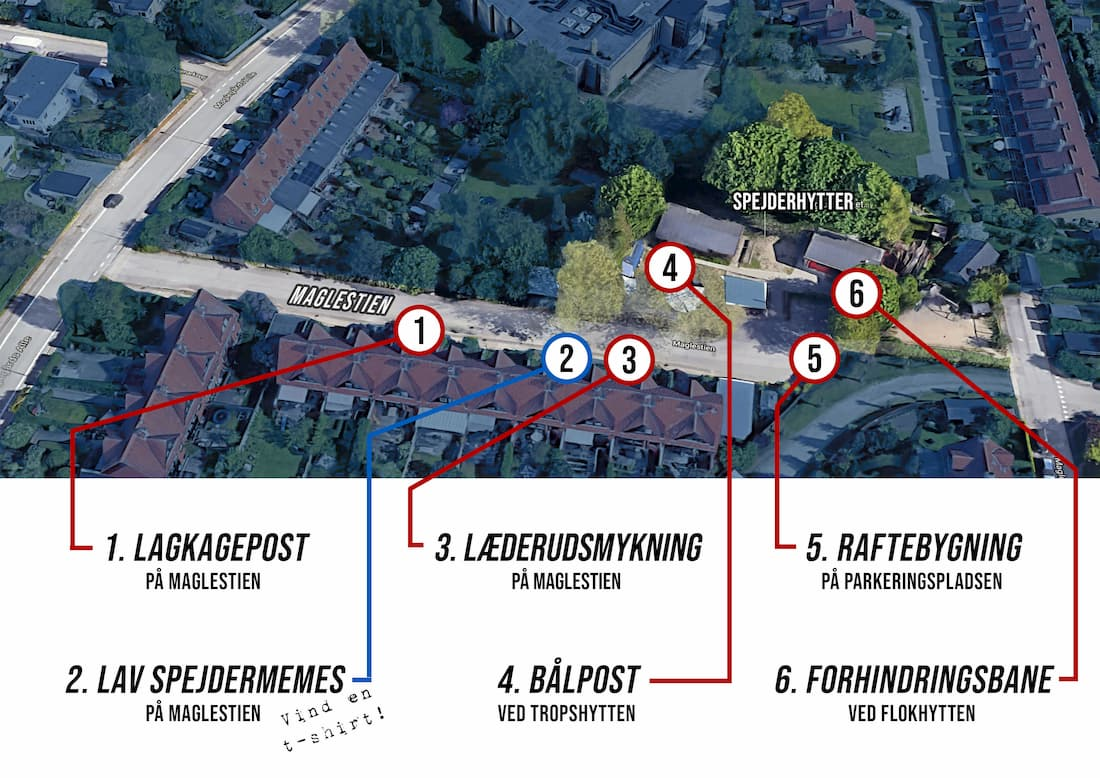
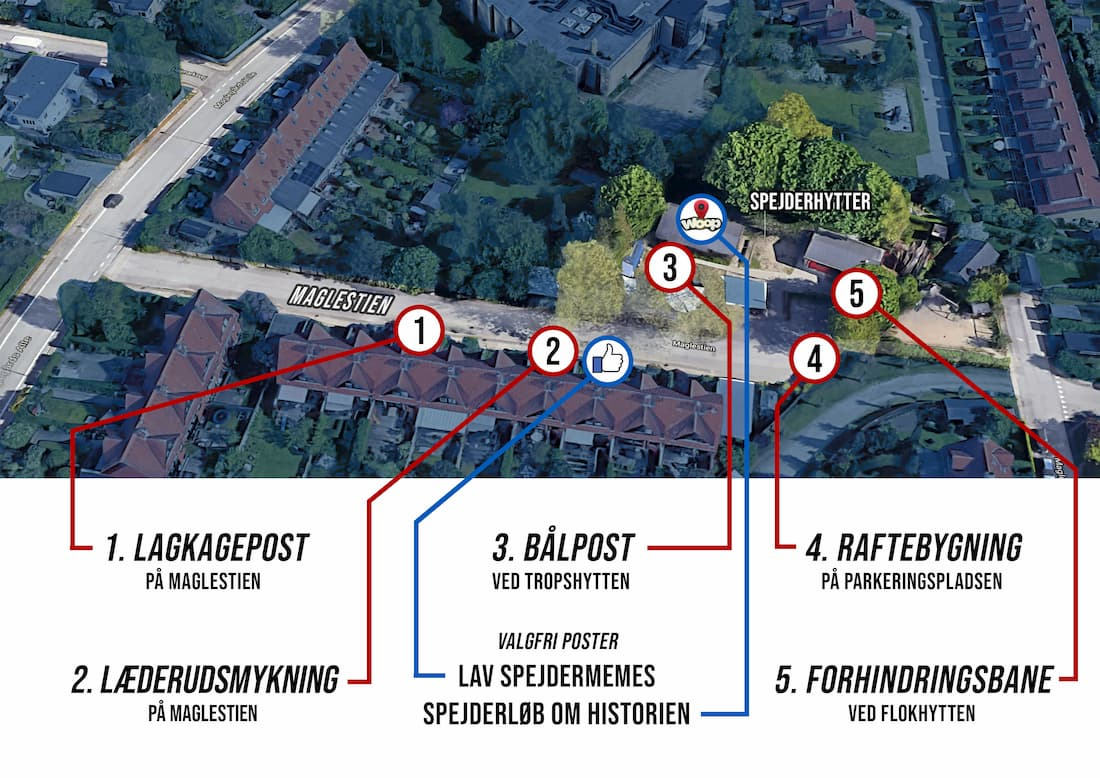
Update activities info: no badges im afraid

diff --git a/_pages/100-aktiviteter.md b/_pages/100-aktiviteter.md
@@ -23,7 +23,7 @@ title: Aktiviteter til åbent hus -  100 års jubilæum
         width: 100%;
         max-width: 600px;
     }
-    .jub-activities-description ol {
+    .jub-activities-description ol, .jub-activities-description ul {
         padding-left: 20px;
     }
 
@@ -55,19 +55,15 @@ title: Aktiviteter til åbent hus -  100 års jubilæum
         </p>
         <p>
             I baren (inde bag hytten) kan du få et klippekort med 5 aktiviteter.
-            Når du har lavet de 5 (som er nr. 1, 3, 4, 5 og 6 på kortet) får du helt gratis et spejdermærke til minde om jubilæumsdagen (værdi 25 kr).
+            Når du har lavet de 5 (som er nr. 1-5 på kortet) får du helt gratis et spejdermærke til minde om jubilæumsdagen (værdi 25 kr).
+            <strong>Desværre er mærkerne blevet taget i tolden på vej til os, så vi kan ikke udlevere dem på dagen. Du kan stadig klare aktiviteterne, og så eftersender vi mærket.</strong>
             En aktivitet tager mellem 10 og 45 minutter og posterne er åbne mellem 10:00 og 15:00.
         </p>
         <p>
-            Her er de aktiviteter vi byder på:
+            Her er de aktiviteter vi byder på, som til sammen giver adgang til et mærke:
             <ol>
                 <li>
                     <strong>Lagkagepost</strong>, hvor der skal bygges lagkage, men hvor man bliver udfordret på hvad man kan bruge af hænder og køkkenudstyr.
-                </li>
-                <li>
-                    <strong>Spejder-memes</strong>, hvor du kan hjælpe os med at designe en t-shirt, ved at finde på en sjov tekst til et gammelt billede.
-                    (<a href="https://da.wikipedia.org/wiki/Internetf%C3%A6nomen" target="_blank" rel="noopener">Memes er sjove billeder på internettet.</a>)
-                    <em>Denne post er ikke adgangsgivende til mærke, men vi vælger en vinder kl. 17, der får en gratis t-shirt.</em>
                 </li>
                 <li>
                     <strong>Læderudsmykning</strong>, hvor du kan lave læderlap med motiv påbrændt, som kan bindes på en cykel eller en taske eller noget andet, du mangler en besked eller et billede på.
@@ -83,6 +79,22 @@ title: Aktiviteter til åbent hus -  100 års jubilæum
                     <strong>Forhindringsbane</strong>, hvor du bliver udfordret på din evne til at komme igennem forhindringer, mens du kan opleve gruppens historie i en tidsmaskine 🤯
                 </li>
             </ol>
+        </p>
+        <p>
+            Derudover har vi to ekstra, valgfri poster:
+            <ul>
+                <li>
+                    <strong>Spejder-memes 👍</strong>, hvor du kan hjælpe os med at designe en t-shirt, ved at finde på en sjov tekst til et gammelt billede.
+                    (<a href="https://da.wikipedia.org/wiki/Internetf%C3%A6nomen" target="_blank" rel="noopener">Memes er sjove billeder på internettet.</a>)
+                    <em>Denne post er ikke adgangsgivende til mærke, men vi vælger en vinder kl. 17, der får en gratis t-shirt.</em>
+                </li>
+                <li>
+                    <strong>Spejderløb om historien</strong>, hvor du kan udforske 1. Søborgs historie på et løb rundt i lokalområdet.
+                    Løbet starter i Museet (tropshytten), hvor du kan finde mere information om hvordan du kommer i gang.
+                    Man kan gå sammen i grupper, og det kræver bare én smartphone (som man kan hente <a href="https://spejderne.dk/projekter/woop/" target="_blank" rel="noopener">Woop-app'en</a> på) pr. gruppe at kunne tage på løbet.
+                    <em>Denne post er ikke adgangsgivende til mærke.</em>
+                </li>
+            </ul>
         </p>
     </div>
 </div>
